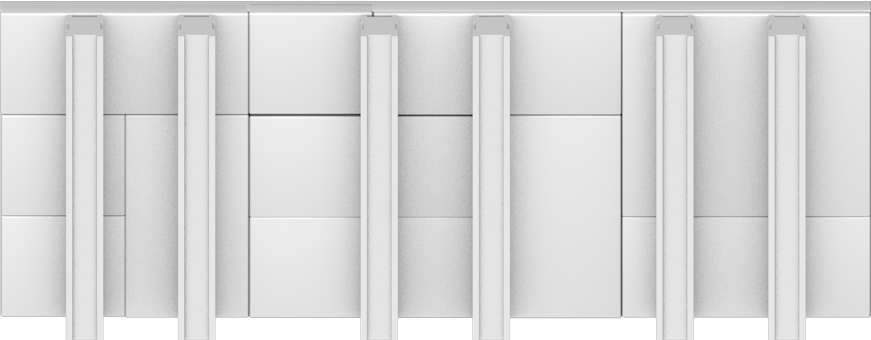
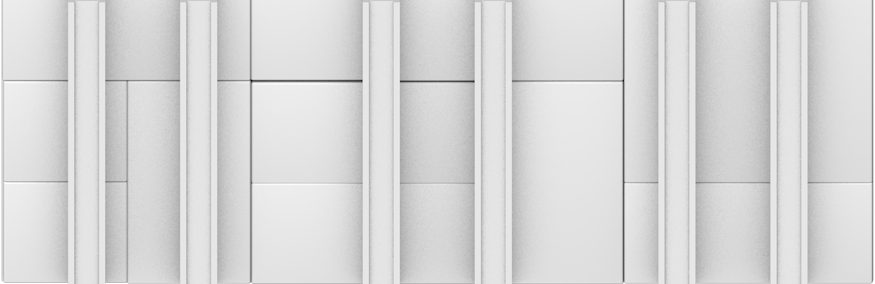
Fixed bug with background. Added new tube and background assets.

diff --git a/Assets/Scripts/Obstacle.cs b/Assets/Scripts/Obstacle.cs
@@ -24,10 +24,11 @@ public class Obstacle : AutomoveObject
             Vector3 dir = collision.transform.position - transform.position;
             BallController bc = collision.GetComponent<BallController>();
             Debug.Log(dir);
-            if (dir.normalized == Vector3.down)
-                OnPlayerEnterFront(collision);
-            else
-                OnPlayerEnterLateral(collision);
+            OnPlayerEnterFront(collision);
+            //if (dir.normalized == Vector3.down)
+            //    OnPlayerEnterFront(collision);
+            //else
+            //    OnPlayerEnterLateral(collision);
         }
     }
 
@@ -37,10 +38,11 @@ public class Obstacle : AutomoveObject
         {
             Vector3 dir = collision.transform.position - transform.position;
             Debug.Log(dir);
-            if (dir.normalized == Vector3.down)
-                OnPlayerExitFront(collision);
-            else
-                OnPlayerExitLateral(collision);
+            OnPlayerExitFront(collision);
+            //if (dir.normalized == Vector3.down)
+            //    OnPlayerExitFront(collision);
+            //else
+            //    OnPlayerExitLateral(collision);
         }
     }
 

diff --git a/Assets/Scripts/BackgroundManager.cs b/Assets/Scripts/BackgroundManager.cs
@@ -29,9 +29,7 @@ public class BackgroundManager : MonoBehaviour
         if (obj)
         {
             obj.transform.position = upperPiece.transform.position + Vector3.up*pieceSize;
-            upperPiece.GetComponent<SpriteRenderer>().sortingOrder = 0;
             upperPiece = obj;
-            upperPiece.GetComponent<SpriteRenderer>().sortingOrder = 1;
         }
     }
 
